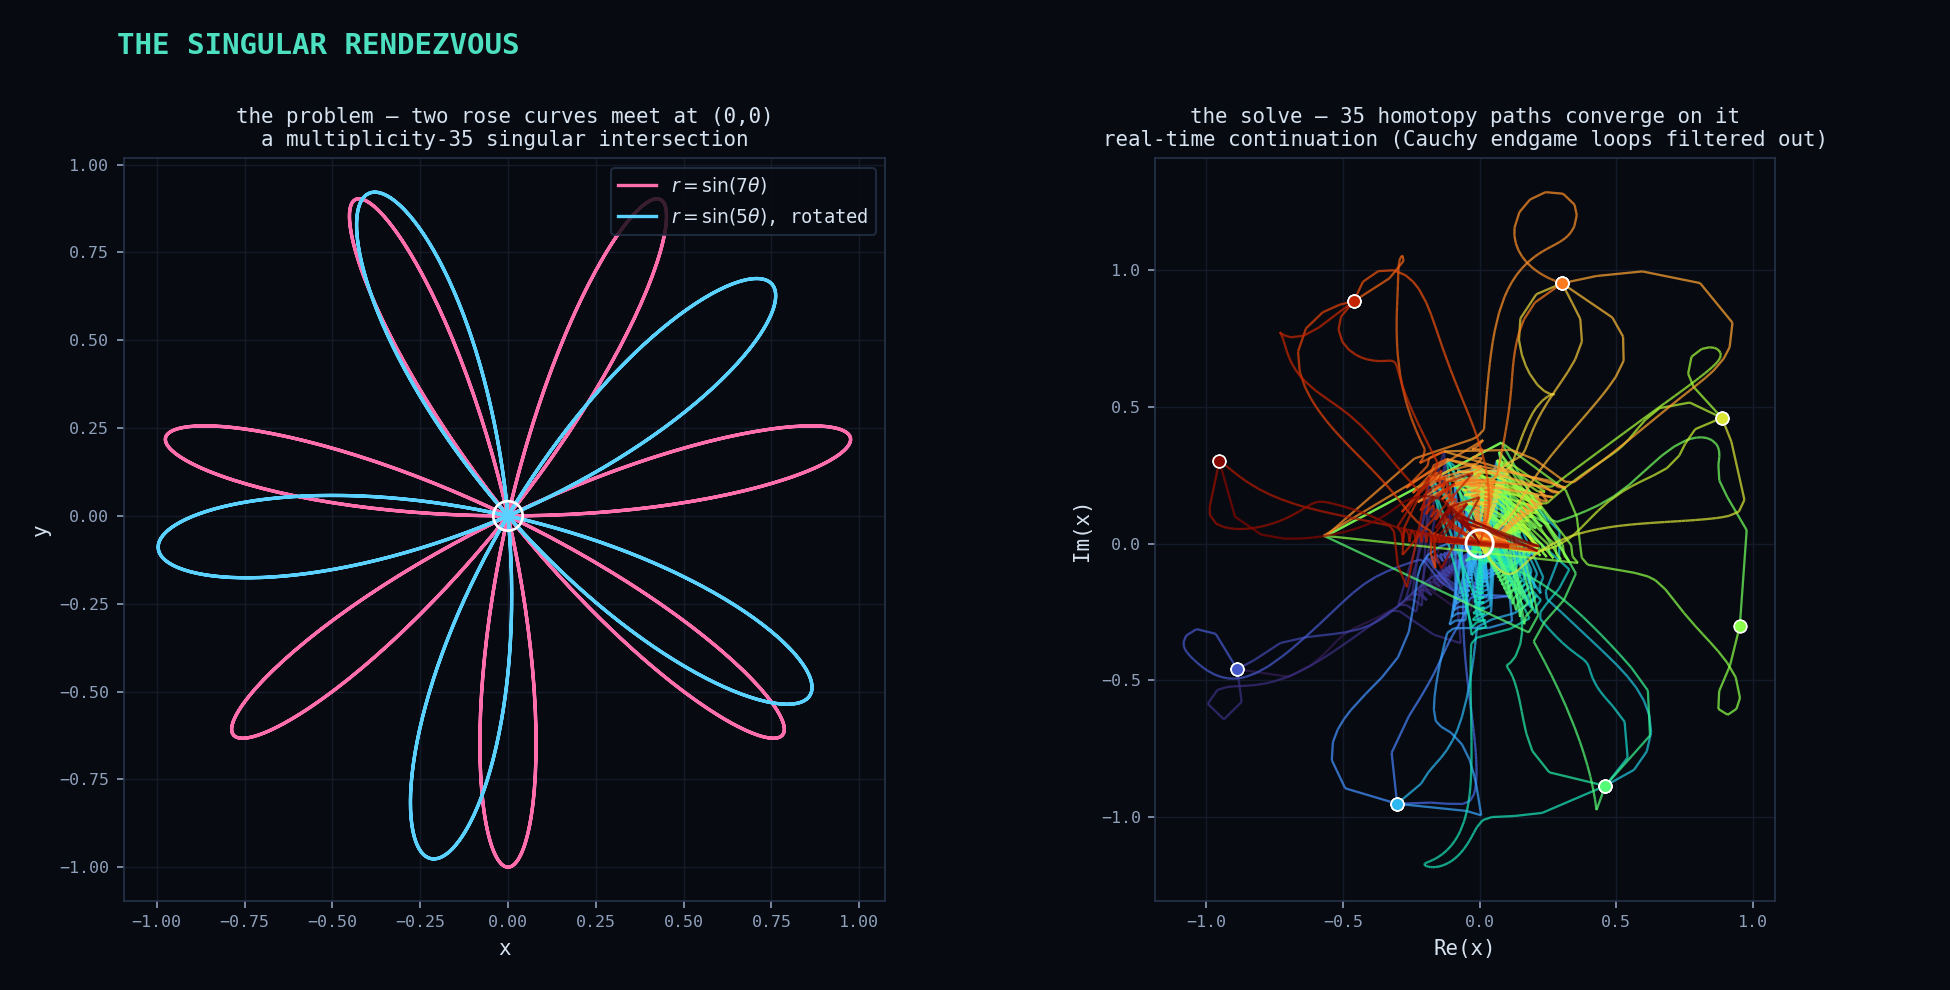
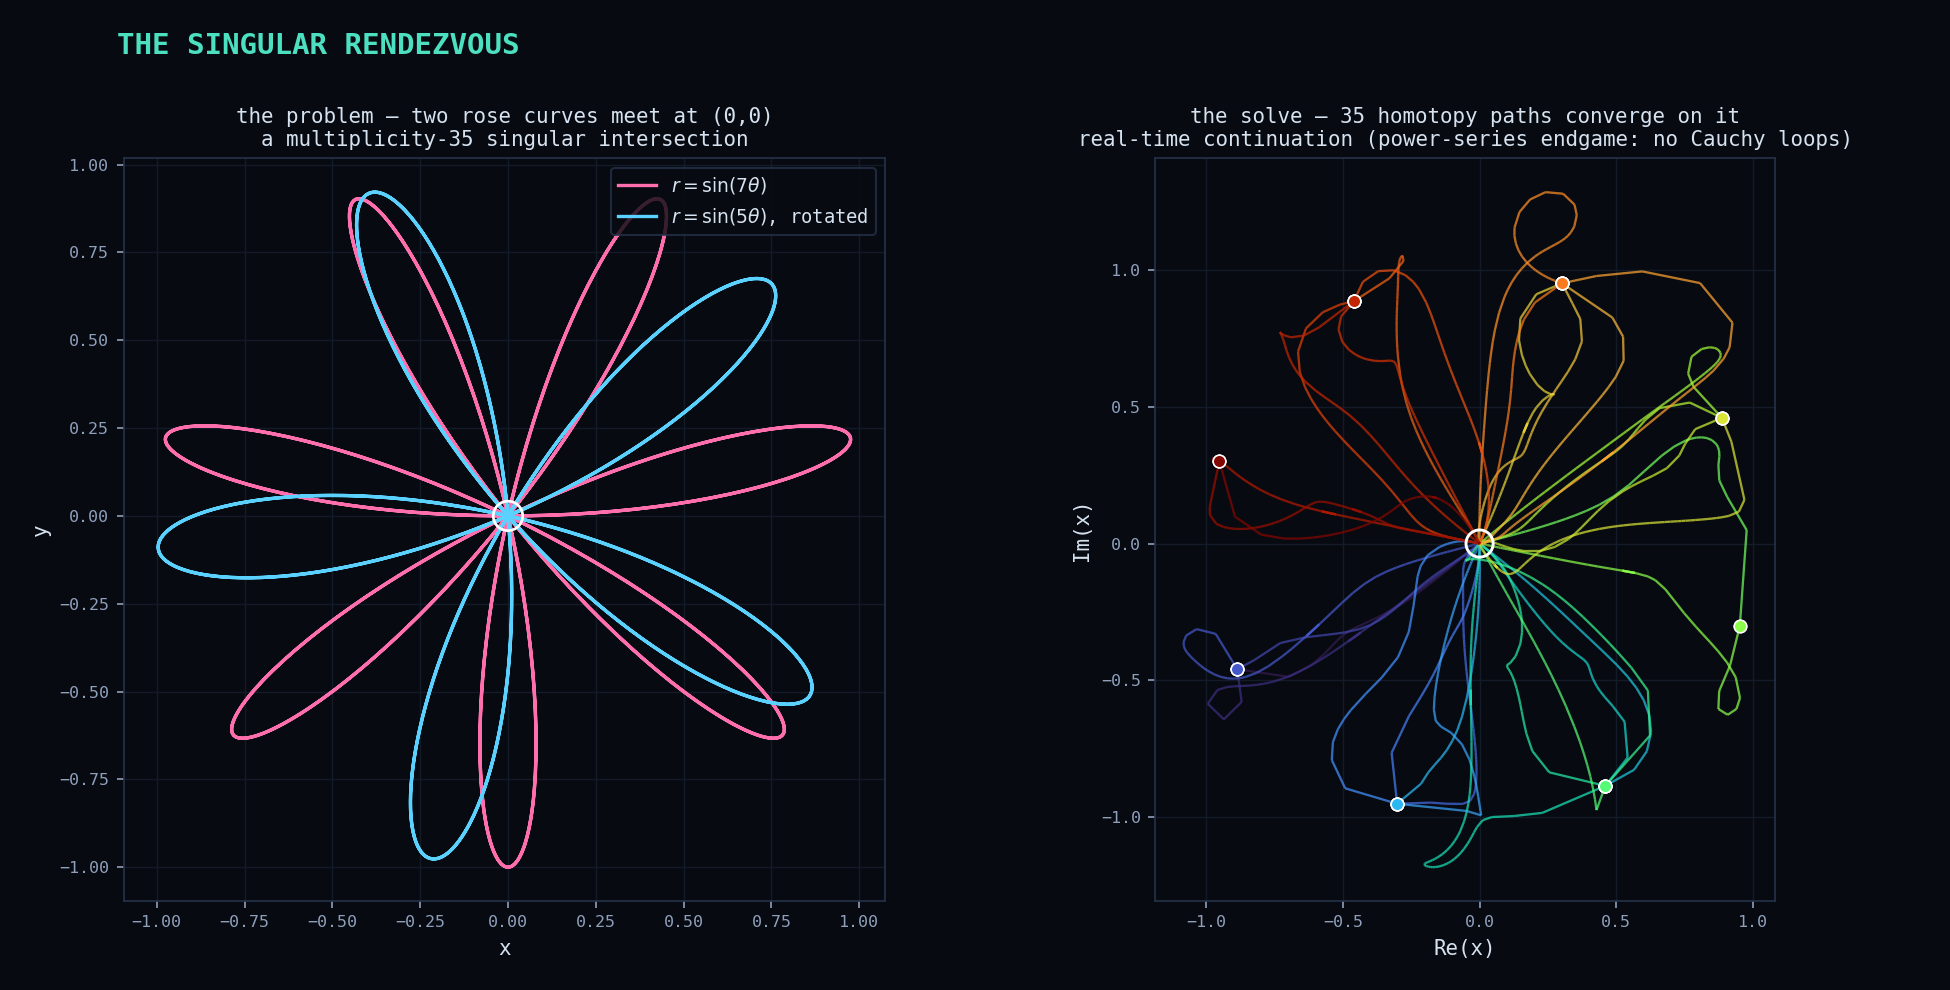
docs(showpieces): flight recorder convergence via power-series endgame (no zig-zags)
The convergence panel's "loop-free" paths were reconstructed by filtering the
Cauchy solve (keep steps where |t| hits a new minimum).  That was a heuristic,
and it showed: the Cauchy endgame crosses the real axis c times per radius (one
per cycle sheet), so any filter picks points off different sheets at different
arg(t) -> visible zig-zags, |t| non-monotone.  You cannot carve a single-valued
radial path out of the endgame's (deliberately multi-sheeted) data.

Fix: give the convergence figure its own POWER-SERIES solve.  That endgame tracks
radially toward t=0 with no circular sampling, so every path is an honest
single-valued descent (|t| monotone, smooth) onto the singular point.  The
cockpit stays Cauchy (its spiral IS the point).  Two solves now; still serial +
seeded -> reproducible.

Changed region(s): [[0.6769, 0.4242, 0.8308, 0.6667], [0.5538, 0.1212, 0.9538, 0.1515]]

diff --git a/python/docs/source/showpieces/flight_recorder/flight_recorder.py b/python/docs/source/showpieces/flight_recorder/flight_recorder.py
@@ -81,67 +81,62 @@ def rose_curve(k, rotation=0.0, n=1400):
     c, s = math.cos(rotation), math.sin(rotation)
     return c * X - s * Y, s * X + c * Y
 
-def _descent_spine(path):
-    """Keep only the real-time continuation steps: those where |t| reaches a new minimum.  This
-    drops the Cauchy endgame's circular sampling (steps at constant |t|), leaving the loop-free
-    descent.  Returns (abs_t, affine) on the spine, with the singular endpoint (0,0) appended."""
-    abs_t = np.abs(path.times())
-    affine = path.points()[:, 1:] / path.points()[:, 0:1]
-    runmin = np.minimum.accumulate(abs_t)
-    keep = np.concatenate([[True], runmin[1:] < runmin[:-1]])
-    at, af = abs_t[keep], affine[keep]
-    return np.append(at, at[-1] * 1e-2), np.vstack([af, np.zeros((1, af.shape[1]))])
+# --- solving and recording ----------------------------------------------------------------------
 
-
-# --- fly one hard path and record everything ----------------------------------------------------
-
-def record_hard_path(m=7, n=5, final_tolerance=1e-20, seed=2):
-    """Solve system_rhodonea(m, n) with tight accuracy, collecting every path; return the richest
-    singular path's telemetry (the one that escalates precision the most) plus its metadata."""
+def _solve(m, n, seed, endgame, final_tolerance=None):
+    """One serial, deterministic solve of system_rhodonea(m, n) with the chosen endgame, every path
+    collected.  Returns (collector, meta, rotation)."""
     bertini.recording(False)                        # WATCH tracking, do not recall it
     bertini.random.set_random_seed(seed)            # deterministic system + solve -> stable picture
-
     system, rotation = system_rhodonea(m, n)
-    solver = ZeroDimSolver(system, mptype='adaptive')
-    tol = solver.get_config(bertini.nag_algorithm.TolerancesConfig)
-    tol.final_tolerance = final_tolerance
-    solver.set_config(tol)
+    solver = ZeroDimSolver(system, mptype='adaptive', endgame=endgame)
+    if final_tolerance is not None:
+        tol = solver.get_config(bertini.nag_algorithm.TolerancesConfig)
+        tol.final_tolerance = final_tolerance
+        solver.set_config(tol)
     cfg = solver.get_config(bertini.nag_algorithm.ZeroDimConfig)
     cfg.num_threads = 1                              # serial -> deterministic path ordering / picture
     solver.set_config(cfg)
-
     collector = SolutionPathCollector()
     solver.add_observer(collector)
     solver.solve()
-
     meta = {int(md.path_index): md for md in solver.solution_metadata()}
-    cols = collector.series[0].DIAGNOSTIC_COLUMNS
-    P = cols.index('precision')
+    return collector, meta, rotation
 
+def record_hard_path(m=7, n=5, final_tolerance=1e-24, seed=2):
+    """The per-path cockpit: a tight-tolerance CAUCHY solve (its spiral IS the point), returning the
+    richest singular path's telemetry (the one that escalates precision the most) plus its metadata."""
+    collector, meta, _ = _solve(m, n, seed, 'cauchy', final_tolerance)
+    P = collector.series[0].DIAGNOSTIC_COLUMNS.index('precision')
     best = None
-    singular_paths = []
     for path in collector.series:
         md = meta.get(path.path_index)
         if not (md and md.is_singular):
             continue
-        singular_paths.append(path)
         dgn = path.diagnostics()
         key = (int(dgn[:, P].max()), len(dgn))       # most precision, then most steps
         if best is None or key > best[0]:
             best = (key, path, md)
     _, path, md = best
-
     dgn = path.diagnostics()
-    cockpit = dict(m=m, n=n, final_tolerance=final_tolerance, path_index=int(path.path_index),
-                   affine=path.points()[:, 1:] / path.points()[:, 0:1],
-                   abs_t=dgn[:, 0], condition=dgn[:, 1], precision=dgn[:, 2], stepsize=dgn[:, 3],
-                   cycle=int(md.cycle_num), multiplicity=int(md.multiplicity),
-                   precision_digits=int(md.precision_digits), accuracy_digits=int(md.accuracy_digits))
+    return dict(m=m, n=n, final_tolerance=final_tolerance, path_index=int(path.path_index),
+                affine=path.points()[:, 1:] / path.points()[:, 0:1],
+                abs_t=dgn[:, 0], condition=dgn[:, 1], precision=dgn[:, 2], stepsize=dgn[:, 3],
+                cycle=int(md.cycle_num), multiplicity=int(md.multiplicity),
+                precision_digits=int(md.precision_digits), accuracy_digits=int(md.accuracy_digits))
 
-    # system-level companion: the two roses, and every singular path's loop-free descent
-    setup = dict(m=m, n=n, rotation=rotation, multiplicity=int(md.multiplicity),
-                 spines=[_descent_spine(p) for p in singular_paths])
-    return cockpit, setup
+def record_convergence(m=7, n=5, seed=2):
+    """The system-level companion: a POWER-SERIES solve, whose endgame tracks radially toward t=0
+    (no Cauchy loops), so every singular path is an honest single-valued real-time descent onto the
+    singular point.  Returns the rotation and each path's (abs_t, affine) trajectory."""
+    collector, meta, rotation = _solve(m, n, seed, 'powerseries')
+    trajectories, multiplicity = [], 1
+    for path in collector.series:
+        md = meta.get(path.path_index)
+        if md and md.is_singular:
+            trajectories.append((np.abs(path.times()), path.points()[:, 1:] / path.points()[:, 0:1]))
+            multiplicity = int(md.multiplicity)
+    return dict(m=m, n=n, rotation=rotation, multiplicity=multiplicity, trajectories=trajectories)
 
 
 # --- the cockpit --------------------------------------------------------------------------------
@@ -258,10 +253,11 @@ def render_setup(setup, out):
     # --- the solve: every singular path's loop-free descent, converging on (0,0) ---
     _style_axis(axC)
     cmap = plt.get_cmap('turbo')
-    npath = len(setup['spines'])
-    order = np.argsort([float(np.angle(s[1][0, 0])) for s in setup['spines']])  # hue by start angle
+    trajs = setup['trajectories']
+    npath = len(trajs)
+    order = np.argsort([float(np.angle(s[1][0, 0])) for s in trajs])  # hue by start angle
     for rank, i in enumerate(order):
-        abs_t, affine = setup['spines'][i]
+        abs_t, affine = trajs[i]
         xv = affine[:, 0]                             # one coordinate's complex plane
         pts = np.column_stack([xv.real, xv.imag])
         segs = np.stack([pts[:-1], pts[1:]], axis=1)
@@ -272,7 +268,7 @@ def render_setup(setup, out):
     axC.autoscale(); axC.set_aspect(1.0)
     axC.set_xlabel('Re(x)'); axC.set_ylabel('Im(x)')
     axC.set_title(f"the solve — {npath} homotopy paths converge on it\n"
-                  "real-time continuation (Cauchy endgame loops filtered out)", color=_INK, fontsize=10, pad=6)
+                  "real-time continuation (power-series endgame: no Cauchy loops)", color=_INK, fontsize=10, pad=6)
 
     fig.text(0.06, 0.945, "THE SINGULAR RENDEZVOUS", color='#4de0c0', fontsize=14, fontweight='bold')
     fig.savefig(out, dpi=150, facecolor=_BG)
@@ -280,9 +276,10 @@ def render_setup(setup, out):
 
 
 def main():
-    cockpit, setup = record_hard_path(m=7, n=5, final_tolerance=1e-24, seed=2)
-    render_setup(setup, os.path.join(_OUT, 'flight_recorder_setup.png'))
-    render(cockpit, os.path.join(_OUT, 'flight_recorder.png'))
+    render_setup(record_convergence(m=7, n=5, seed=2),
+                 os.path.join(_OUT, 'flight_recorder_setup.png'))
+    render(record_hard_path(m=7, n=5, final_tolerance=1e-24, seed=2),
+           os.path.join(_OUT, 'flight_recorder.png'))
 
 
 if __name__ == '__main__':

diff --git a/python/docs/source/showpieces/flight_recorder/index.rst b/python/docs/source/showpieces/flight_recorder/index.rst
@@ -22,14 +22,15 @@ singularity, and the tracker's struggle, get arbitrarily worse.
 
 On the left is the geometry: two roses whose petals all pass through the origin.  On the right is
 the solve — all 35 homotopy paths, each a different colour, wandering out through the complex plane
-from their start points and converging on the singular target (the ring).  These are the paths'
-*real-time* trajectories: the Cauchy endgame's circular sampling has been filtered out (keep only
-the steps where :math:`|t|` reaches a new minimum), leaving the loop-free descent.
+from their start points (dots) and converging on the singular target (the ring).  These are the
+paths' *real-time* trajectories, computed with the **power-series endgame**, which tracks radially
+toward :math:`t \to 0` — unlike the Cauchy endgame it does not sample circles, so each path is an
+honest single-valued descent onto the point with no loops to explain away:
 
 .. literalinclude:: flight_recorder.py
    :language: python
-   :start-at: def _descent_spine(
-   :end-at: return np.append
+   :start-at: def record_convergence(
+   :end-at: return dict(m=m, n=n, rotation=rotation, multiplicity=multiplicity, trajectories=trajectories)
 
 The Flight Recorder: one path, all instruments
 ==============================================
